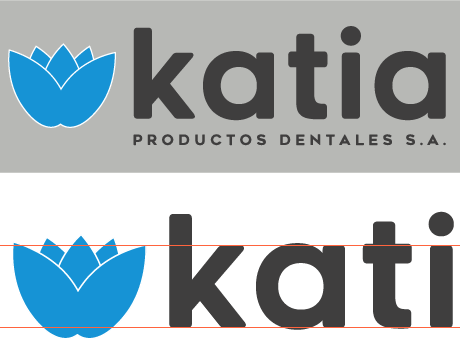
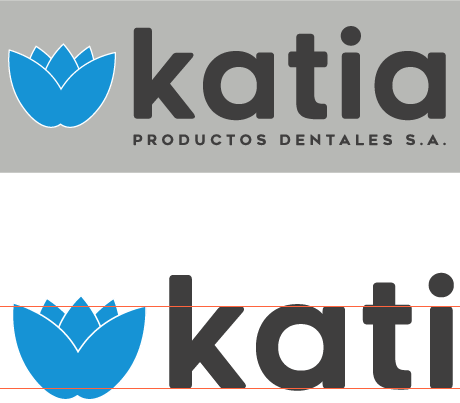
ad

diff --git a/index.html b/index.html
@@ -158,7 +158,7 @@ figcaption {
 <div style="margin-top:20px;"><img  src="https://akidaniel.github.io/katiadental/imagenes/alineacion.png" alt="Detalle"></div>
 
 <div class="bullets">
-<ul><li><strong>Contraindicaciones: </strong><ul><li>El icono de la flor de lis está delimitado por una fina línea que en reducciones del logo desaparece empastando la imagen en un solo objeto (una col)</li><li>La falta de alineación del icono con algún elemento de relevancia, por ejemplo la base del nombre del logo, hace que la parte inferior caiga por debajo de la línea base virtual, acentando el elemento de mayor complejidad formal: el ángulo inferior redondeado (un trasero sentado)</li></ul></li></ul></div></div>
+<ul><li><strong>Contraindicaciones: </strong><ul><li>El icono de la flor de lis está delimitado por una fina línea que en reducciones del logo desaparece empastando la imagen en un solo objeto (una col)</li><li>En el diseño original esta separación está realizada con un contorno blanco en cada objeto, lo que imposibilita su implementación en un fondo de color, tal como sucedió en la portada del catálogo 2020</li><li>La falta de alineación del icono con algún elemento de relevancia, por ejemplo la base del nombre del logo, hace que la parte inferior caiga por debajo de la línea base virtual, acentando el elemento de mayor complejidad formal: el ángulo inferior redondeado (un trasero sentado)</li></ul></li></ul></div></div>
 
 
 <div class="caracteristicas">
